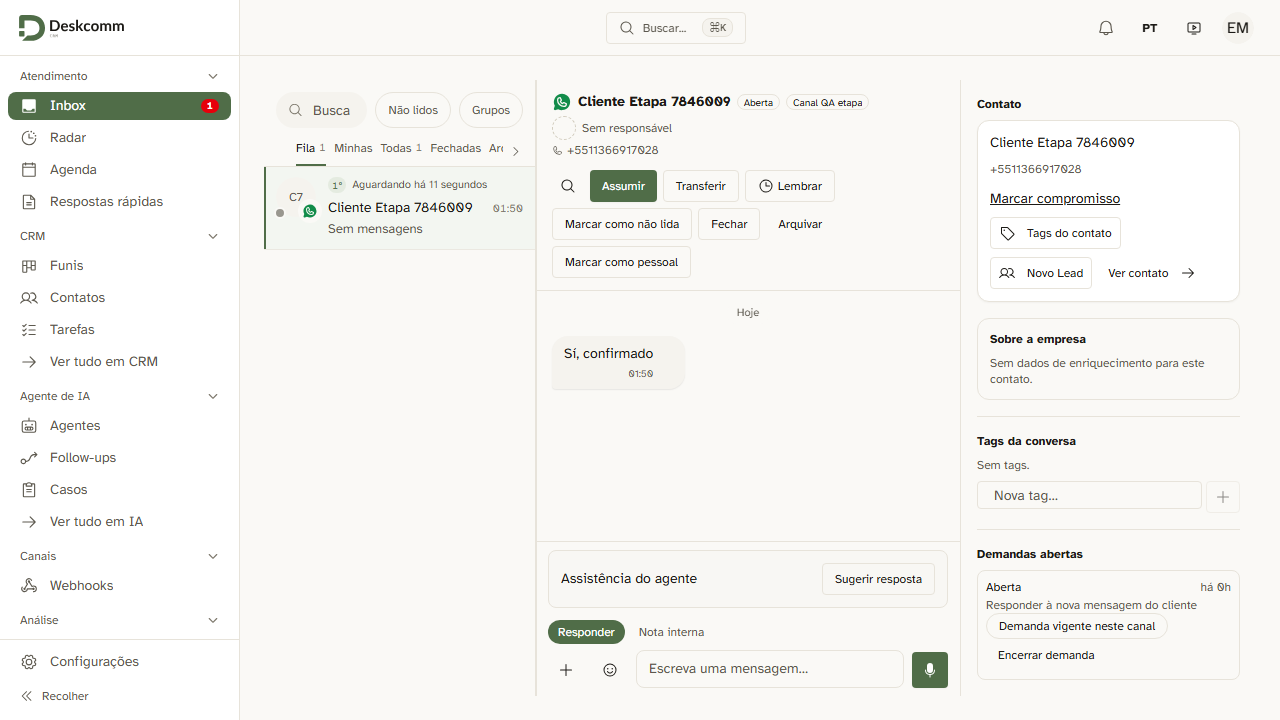
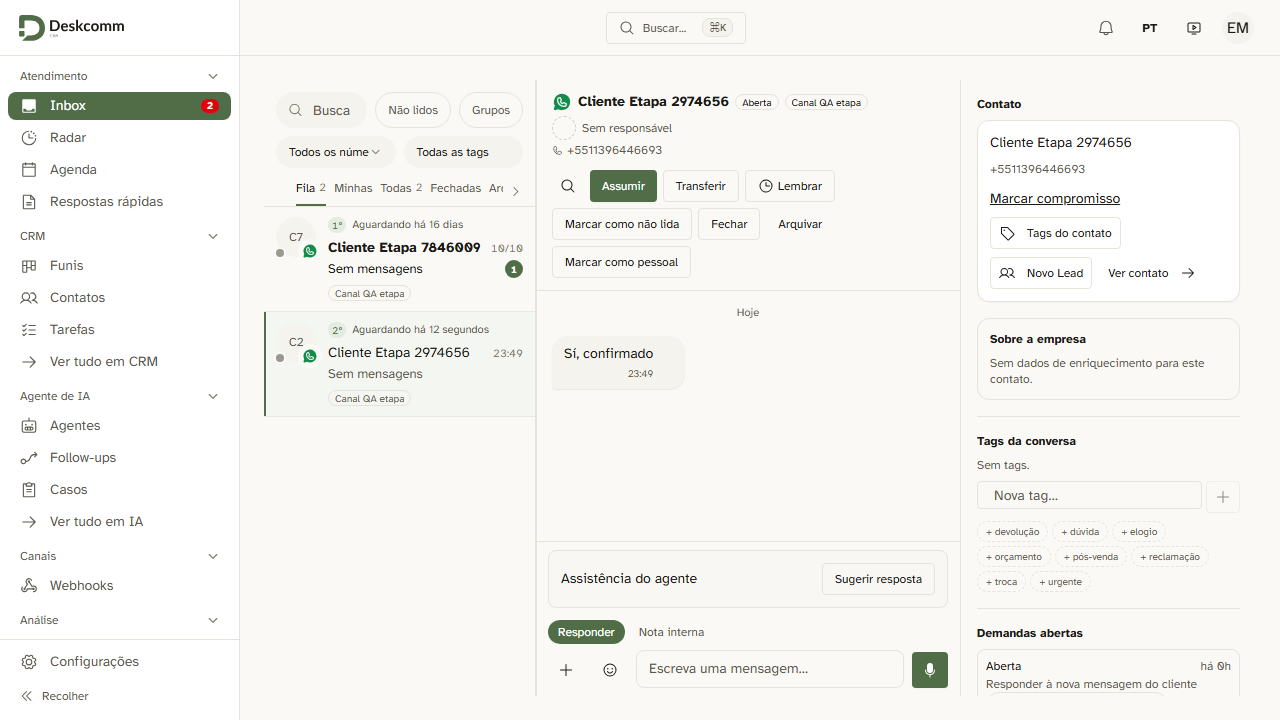
test(inbox): registrar regressao e prova visual da simplificacao

diff --git a/docs/testing/simplificacao-sobreposicoes.md b/docs/testing/simplificacao-sobreposicoes.md
@@ -31,3 +31,16 @@ A retirada integral do editor legado requer inventário das regras existentes, t
 ## Validação
 
 O teste de etapa verifica a ausência da segunda consulta, as etapas ativas ordenadas e a preservação da origem. Os resultados executados e as limitações devem acompanhar o checkpoint; não representa teste de produção.
+
+Executado em 25/10/2026, com banco local `127.0.0.1:55421`:
+
+- Recorte unitário: 7 arquivos, 284 casos aprovados (etapa no Inbox, enriquecimento/autorização, funil arquivado, campos, eventos oficiais da Meta, mapas e atribuição).
+- Controle negativo após checkpoint `33151310b`: reintroduzir uma leitura direta de `crm_stages` causa exatamente 1 falha e 5 aprovações no arquivo de etapa. Restaurado o código, os 6 casos passam.
+- Typecheck completo: exit 0.
+- ESLint completo: exit 0, 0 erros e 522 avisos no repositório; não representa lint sem avisos.
+- `lint-channels`: aprovado. Conferência de fragmentos: aprovada, sem escrever versão.
+- Build local de produção: aprovado; controle positivo confirma host local no bundle.
+- Playwright `etapa-pela-conversa.spec.ts`: 1 caso aprovado em 29,8 s. Abriu Inbox, moveu via bulk, conferiu atividade no banco e exigência de motivo de perda. Capturas sintéticas renovadas em `evidence/triagem-16set-l12/etapa-*.png`. Origem visível na captura `etapa-03-movido.png`.
+- Ambiente E2E registrou fallback local de rate limit por Redis indisponível; não foi prova de integração Redis nem de produção. Nenhuma mensagem externa foi enviada.
+
+Não executados: suíte unitária inteira, suíte completa de invariantes e CI remoto. Não houve alteração de schema/RLS, deploy, medição de consumo da VPS ou migração da configuração legada da Meta. A consolidação integral da Meta continua pendente.
